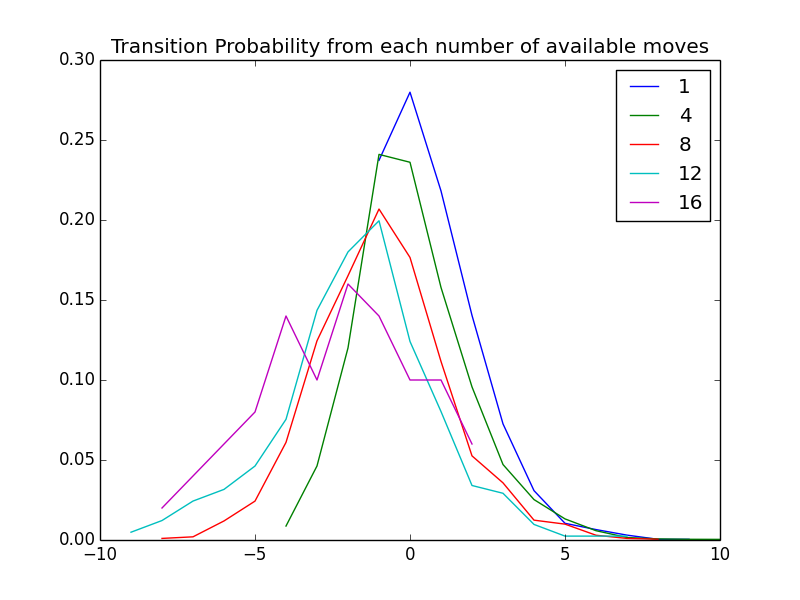
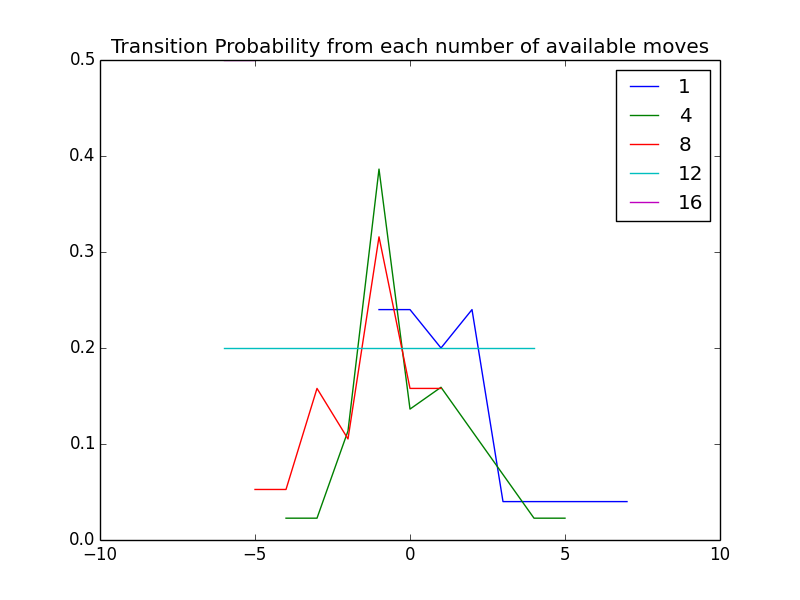
Added comments and writing the data to a file

diff --git a/Gameboard3.py b/Gameboard3.py
@@ -122,18 +122,18 @@ class Game:
         self.clearBoard()
         self.gameLength += 1
     
-# Use the first possible move in the list - this also happens to be the move at the 'top left' of the board
+#playing from the top
 def topStrat(game):
     moves = game.getPossibleMoves()
     moveSorted = sorted(moves, key=lambda x: x[0][0])
-    return moveSorted[0]
-#this uses the last element in the moves list - bottom right?
+    return moveSorted[-1]  #may seem counter-intuitive, but our gravity works from the right, so the monos at the top are those furthest along the board
+#playing from the bottom
 def bottomStrat(game):
     moves = game.getPossibleMoves()
     moveSorted = sorted(moves, key=lambda x: x[0][0])
-    return moveSorted[-1]
+    return moveSorted[0]
 
-# Use a random move out of the possible moves
+#PLaying randomly
 def randomStrat(game):
     return game.getPossibleMoves()[random.randint(0, len(game.getPossibleMoves())-1)]
 
@@ -142,7 +142,7 @@ def playGame(game, ITERATIONS, strategy):   #Iterations is the number of times y
     gameLengths = []
     deltaChangeByChainPosition = defaultdict(list)
     for i in range(ITERATIONS):
-        game = Game(8, 8, 8)
+        game = Game(8, 8, 8) #defines the game parameters, board size and number of colours
         numMovesAvailable = []
         while not game.gameOver():
             move = strategy(game)     
@@ -155,20 +155,17 @@ def playGame(game, ITERATIONS, strategy):   #Iterations is the number of times y
             delta = numMovesAvailable[a+1] - numMovesAvailable[a]
             deltaChangeByChainPosition[numMovesAvailable[a]].append(delta)
         print "Game", i, "length:", game.gameLength
-       # print "Chain of available moves in Game", i, numMovesAvailable  
-    #print deltaChangeByChainPosition #long output but does the data produce seem right? Sense check
-
         
     print gameLengths # so I can collect the length data if I ever want to reproduce
+    data = open("gamelengthdata.txt","w+")
+    data.write(str(gameLengths))
+    data.close()
     summaryAndHistPlot(gameLengths, deltaChangeByChainPosition)
     return gameLengths, deltaChangeByChainPosition
    
 
 def summaryAndHistPlot(gameLengths, deltaChangeByChainPosition):
-    #making a frequency table and some quick statistics
-    #for i in range(max(gameLengths) + 1):
-    #   print "Number of games with length", i,":", gameLengths.count(i)
-    print stat.describe(gameLengths)
+    print stat.describe(gameLengths)   #summary statistics
     print "Mean Game Length:", round(scipy.mean(gameLengths), 3)
     print "Highest Game Length:", max(gameLengths)
     print "Lowest Game Length:", min(gameLengths)
@@ -181,7 +178,7 @@ def summaryAndHistPlot(gameLengths, deltaChangeByChainPosition):
     plt.xlim(-10, 10)
     plt.legend()   
     plt.title("Transition Probability from each number of available moves")
-    plt.savefig("Move delta positions.png") #saves in this directory
+    plt.savefig("Move delta positions.png") #Saves our graph in this current directory
     plt.show()
     
     
@@ -195,4 +192,4 @@ def summaryAndHistPlot(gameLengths, deltaChangeByChainPosition):
     plt.title("Game Lengths when using the random strategy of taking a random move in the list")
     plt.show()
 
-playGame(Game, 1000, topStrat) # Enter the number of games and the strategy you want to use
+playGame(Game, 10, topStrat) # Enter the number of games and the strategy you want to use
